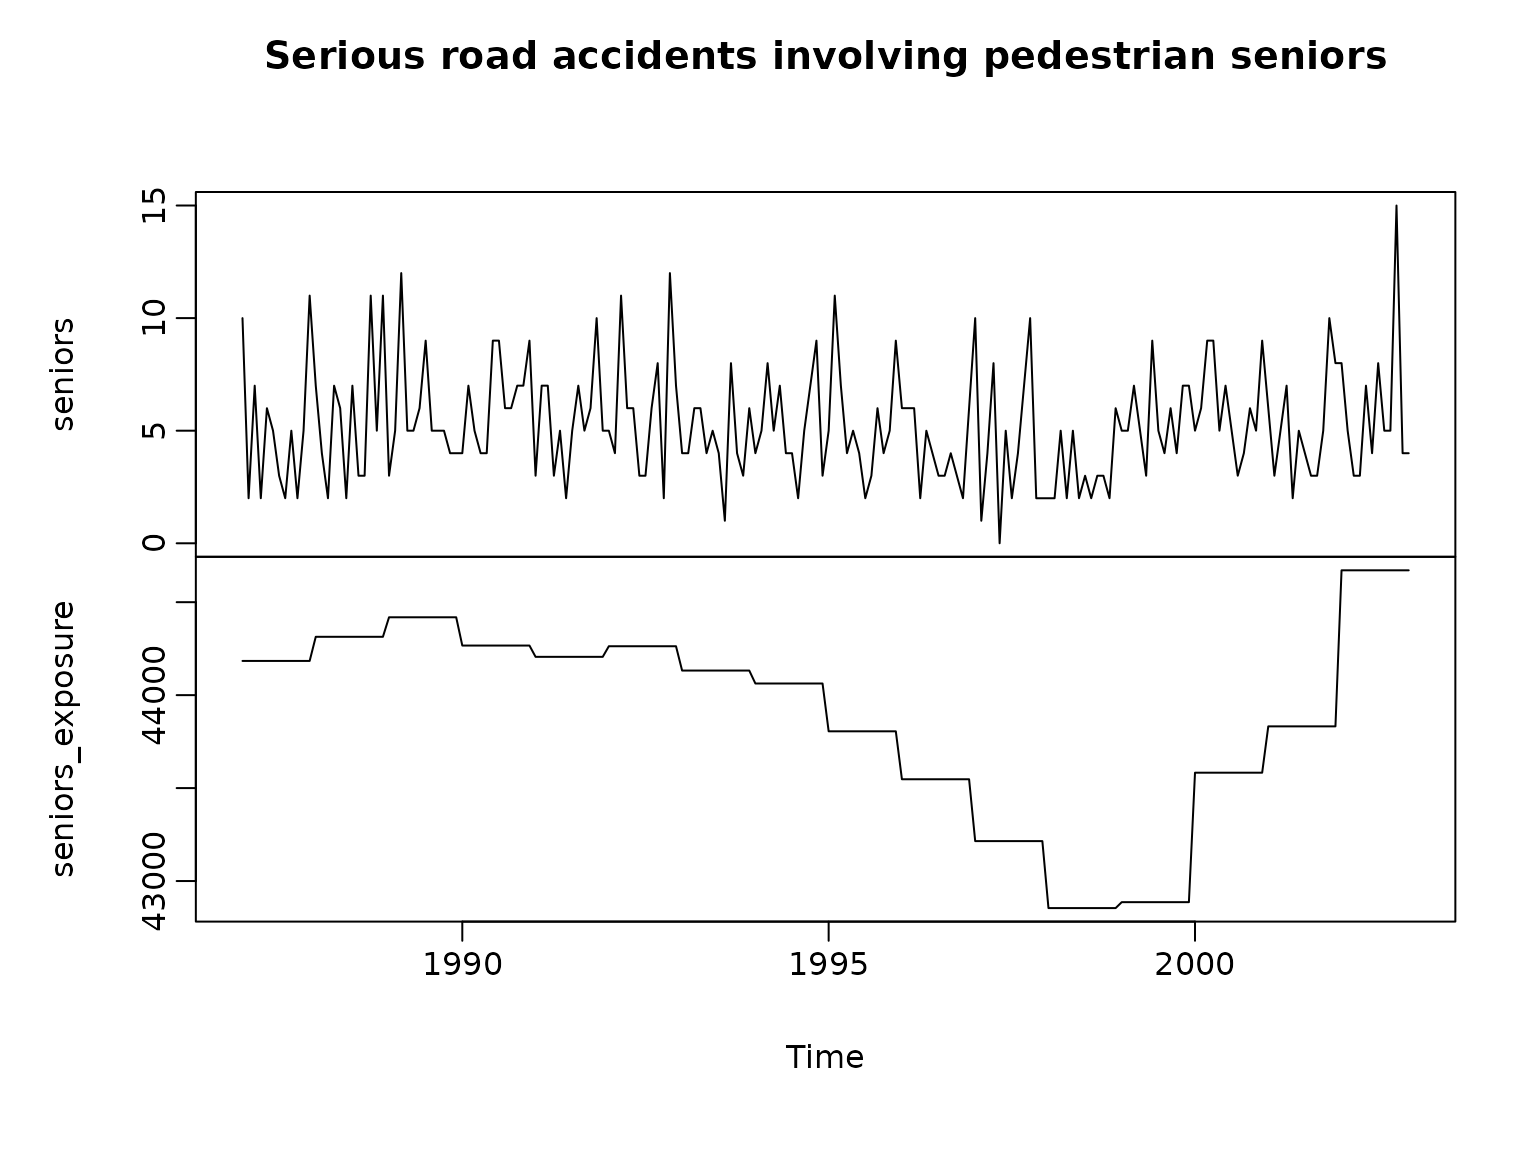
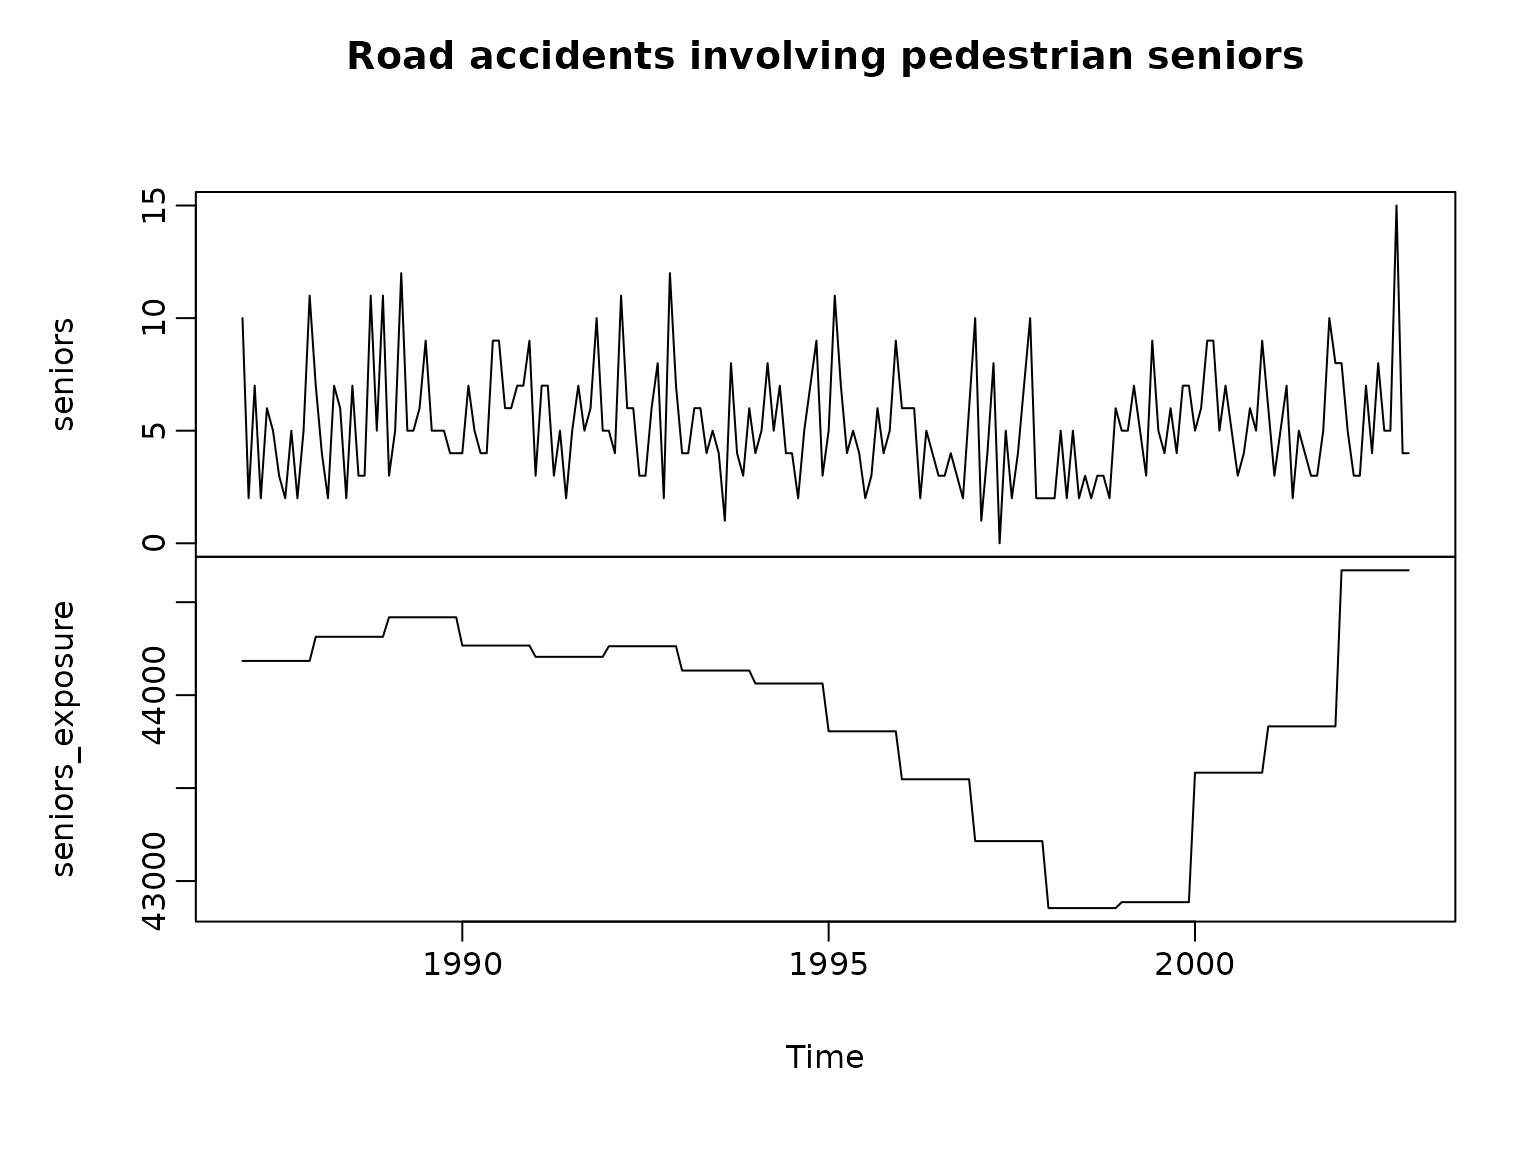
Deploying to gh-pages from @ gregorkastner/BayesianLearningCode@5b086b4467e6755c38624cfa744789610681dd1d 🚀

Changed region(s): [[0.1562, 0.0312, 0.9062, 0.0625]]

diff --git a/articles/Chapter02.html b/articles/Chapter02.html
@@ -78,10 +78,10 @@
 <span><span class="co">#&gt;  - attr(*, "dimnames")=List of 2</span></span>
 <span><span class="co">#&gt;   ..$ : NULL</span></span>
 <span><span class="co">#&gt;   ..$ : chr [1:4] "children" "seniors" "children_exposure" "seniors_exposure"</span></span>
-<span><span class="fu"><a href="https://rdrr.io/r/graphics/plot.default.html" class="external-link">plot</a></span><span class="op">(</span><span class="va">accidents</span><span class="op">[</span>,<span class="fu"><a href="https://rdrr.io/r/base/c.html" class="external-link">c</a></span><span class="op">(</span><span class="fl">1</span>,<span class="fl">3</span><span class="op">)</span><span class="op">]</span>, main <span class="op">=</span> <span class="st">"Serious road accidents involving pedestrian children"</span><span class="op">)</span></span></code></pre></div>
+<span><span class="fu"><a href="https://rdrr.io/r/graphics/plot.default.html" class="external-link">plot</a></span><span class="op">(</span><span class="va">accidents</span><span class="op">[</span>,<span class="fu"><a href="https://rdrr.io/r/base/c.html" class="external-link">c</a></span><span class="op">(</span><span class="fl">1</span>,<span class="fl">3</span><span class="op">)</span><span class="op">]</span>, main <span class="op">=</span> <span class="st">"Road accidents involving pedestrian children"</span><span class="op">)</span></span></code></pre></div>
 <p><img src="Chapter02_files/figure-html/unnamed-chunk-3-1.png" width="768"></p>
 <div class="sourceCode" id="cb2"><pre class="downlit sourceCode r">
-<code class="sourceCode R"><span><span class="fu"><a href="https://rdrr.io/r/graphics/plot.default.html" class="external-link">plot</a></span><span class="op">(</span><span class="va">accidents</span><span class="op">[</span>,<span class="fu"><a href="https://rdrr.io/r/base/c.html" class="external-link">c</a></span><span class="op">(</span><span class="fl">2</span>,<span class="fl">4</span><span class="op">)</span><span class="op">]</span>, main <span class="op">=</span> <span class="st">"Serious road accidents involving pedestrian seniors"</span><span class="op">)</span></span></code></pre></div>
+<code class="sourceCode R"><span><span class="fu"><a href="https://rdrr.io/r/graphics/plot.default.html" class="external-link">plot</a></span><span class="op">(</span><span class="va">accidents</span><span class="op">[</span>,<span class="fu"><a href="https://rdrr.io/r/base/c.html" class="external-link">c</a></span><span class="op">(</span><span class="fl">2</span>,<span class="fl">4</span><span class="op">)</span><span class="op">]</span>, main <span class="op">=</span> <span class="st">"Road accidents involving pedestrian seniors"</span><span class="op">)</span></span></code></pre></div>
 <p><img src="Chapter02_files/figure-html/unnamed-chunk-3-2.png" width="768"></p>
 </div>
 </div>
